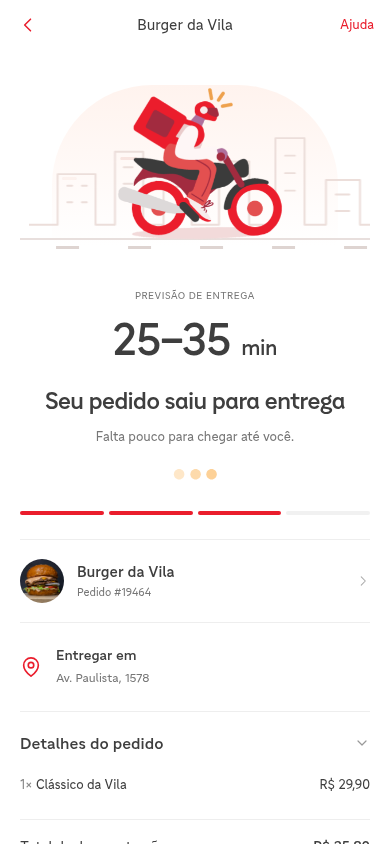
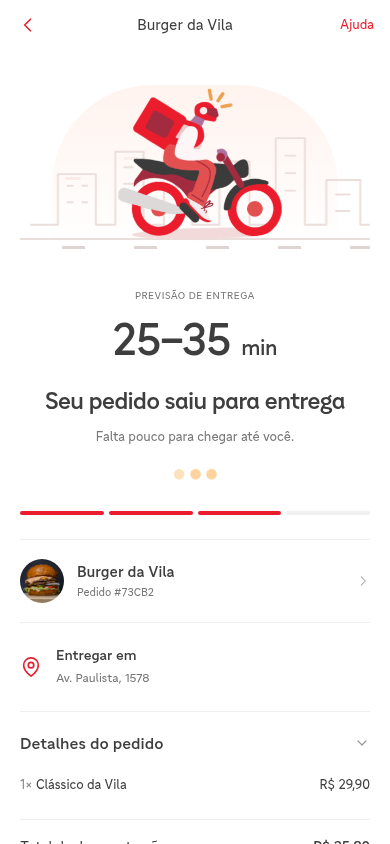
Animate preparing order with branded pot and rising steam

diff --git a/dist/ifood-effects.js b/dist/ifood-effects.js
@@ -38,6 +38,13 @@ export function orderScene(order) {
       <span class="accept-check"><svg viewBox="0 0 40 40"><path d="m10 21 7 7 14-15" pathLength="1"/></svg></span>
     </div>`;
   }
+  if (order.status === "preparing") {
+    return `<div class="order-scene preparation-scene" data-order-motion="preparing" data-order-id="${id}" aria-hidden="true">
+      <div class="prep-halo"></div><div class="prep-shadow"></div>
+      <svg class="prep-steam" viewBox="0 0 104 66"><path class="steam-one" d="M22 56c-14-12 14-16 0-30"/><path class="steam-two" d="M52 48c-17-14 17-19 0-35"/><path class="steam-three" d="M82 56c-14-12 14-16 0-30"/></svg>
+      <div class="prep-pot"><span class="prep-handle handle-left"></span><span class="prep-handle handle-right"></span><div class="prep-body"><img src="./assets/identity/ifood/logo.svg" alt=""></div><div class="prep-lid"><span></span></div></div>
+    </div>`;
+  }
   if (order.status === "delivering") {
     return `<div class="order-scene delivery-scene" data-order-motion="delivery" data-order-id="${id}">
       <div class="courier-sky" aria-hidden="true"></div>
@@ -149,6 +156,70 @@ export function mountOrderScenes(root = document) {
             { transform: "translateY(0) scale(1)", opacity: 1 },
           ],
           { delay: 300 + i * 90, duration: 700, fill: "backwards" },
+        );
+      }
+    } else if (el.dataset.orderMotion === "preparing") {
+      animate(
+        ".prep-pot",
+        [
+          { transform: "translateY(18px) scale(.9)", opacity: 0 },
+          {
+            transform: "translateY(-3px) scale(1.02)",
+            opacity: 1,
+            offset: 0.7,
+          },
+          { transform: "translateY(0) scale(1)", opacity: 1 },
+        ],
+        { duration: 650, easing: "cubic-bezier(.22,1,.36,1)" },
+      );
+      animate(
+        ".prep-halo",
+        [
+          { transform: "scale(.8)", opacity: 0 },
+          { transform: "scale(1)", opacity: 1 },
+        ],
+        { duration: 800, easing: "ease-out" },
+      );
+      animate(
+        ".prep-shadow",
+        [
+          { transform: "scale(.75)", opacity: 0 },
+          { transform: "scale(1)", opacity: 0.65 },
+        ],
+        { duration: 650, easing: "ease-out" },
+      );
+      animate(
+        ".prep-lid",
+        [
+          { transform: "translateY(0) rotate(0)" },
+          { transform: "translateY(-7px) rotate(-3deg)", offset: 0.35 },
+          { transform: "translateY(-4px) rotate(2deg)", offset: 0.65 },
+          { transform: "translateY(0) rotate(0)" },
+        ],
+        { duration: 1400, iterations: 3, delay: 250, easing: "ease-in-out" },
+      );
+      for (const [i, name] of [
+        ".steam-one",
+        ".steam-two",
+        ".steam-three",
+      ].entries()) {
+        animate(
+          name,
+          [
+            { transform: "translateY(6px) scaleX(.85)", opacity: 0.15 },
+            {
+              transform: "translateY(-3px) scaleX(1.1)",
+              opacity: 0.8,
+              offset: 0.55,
+            },
+            { transform: "translateY(0) scaleX(1)", opacity: 0.65 },
+          ],
+          {
+            duration: 1400,
+            iterations: 3,
+            delay: i * 160,
+            easing: "ease-in-out",
+          },
         );
       }
     } else {

diff --git a/dist/ifood-effects.css b/dist/ifood-effects.css
@@ -131,6 +131,105 @@
   background: #e8ab57;
   border-radius: 50%;
 }
+.preparation-scene {
+  width: 260px;
+  height: 176px;
+  margin-top: -8px;
+  margin-bottom: 18px;
+}
+.prep-halo {
+  position: absolute;
+  width: 156px;
+  height: 146px;
+  left: 52px;
+  top: 10px;
+  border-radius: 50%;
+  background: #fff1ed;
+}
+.prep-shadow {
+  position: absolute;
+  width: 132px;
+  height: 11px;
+  left: 64px;
+  bottom: 10px;
+  border-radius: 50%;
+  background: #ecd8d4;
+  opacity: 0.65;
+}
+.prep-steam {
+  position: absolute;
+  width: 104px;
+  height: 66px;
+  left: 78px;
+  top: 9px;
+  fill: none;
+  stroke: #e7a99b;
+  stroke-width: 4;
+  stroke-linecap: round;
+  overflow: visible;
+}
+.prep-steam path {
+  transform-box: fill-box;
+  transform-origin: center bottom;
+  opacity: 0.65;
+}
+.prep-pot {
+  position: absolute;
+  left: 65px;
+  top: 88px;
+  width: 130px;
+  height: 63px;
+  transform-origin: 50% 95%;
+}
+.prep-body {
+  position: absolute;
+  inset: 0;
+  display: grid;
+  place-items: center;
+  border-radius: 4px 4px 31px 31px;
+  background: #ea1d2c;
+  box-shadow: inset -12px -4px #d51523;
+}
+.prep-body > img {
+  width: 65px;
+  height: auto;
+  filter: brightness(0) invert(1);
+  margin: 1px 5px 0 0;
+}
+.prep-handle {
+  position: absolute;
+  top: 6px;
+  width: 25px;
+  height: 18px;
+  border: 6px solid #c41120;
+  border-radius: 8px;
+}
+.prep-handle.handle-left {
+  left: -18px;
+}
+.prep-handle.handle-right {
+  right: -18px;
+}
+.prep-lid {
+  position: absolute;
+  top: -12px;
+  left: -6px;
+  width: 142px;
+  height: 18px;
+  border-radius: 65% 65% 5px 5px;
+  background: #f04751;
+  box-shadow: inset 0 -5px #c41120;
+  transform-origin: 50% 90%;
+}
+.prep-lid > span {
+  position: absolute;
+  top: -8px;
+  left: 58px;
+  width: 26px;
+  height: 10px;
+  border-radius: 6px 6px 3px 3px;
+  background: #c41120;
+}
 .delivery-scene {
   height: 194px;
   margin-top: -8px;
@@ -246,6 +345,9 @@
   }
   .acceptance-scene {
     height: 166px;
+  }
+  .preparation-scene {
+    height: 176px;
   }
   .courier-entry,
   .courier-rider {

diff --git a/tests/ifood_effects_browser.py b/tests/ifood_effects_browser.py
@@ -1,4 +1,4 @@
-"""Event-level checks for cart celebration and order acceptance/delivery motion."""
+"""Event-level checks for cart celebration and each active order status scene."""
 from pathlib import Path
 from playwright.sync_api import sync_playwright, expect
 import os, json, shutil
@@ -50,7 +50,47 @@ with sync_playwright() as p:
     expect(page.locator('[data-order-motion="accepted"]')).to_have_attribute('data-playback','static')
     checks.append('Accepted order has its own one-shot scene and does not replay after reload')
     page.locator('[data-action="advance-order"]').click()
+    preparing=page.locator('[data-order-motion="preparing"]')
+    expect(page.get_by_role('heading',name='Preparando seu pedido',exact=True)).to_be_visible()
+    expect(preparing).to_be_visible()
+    expect(preparing).to_have_attribute('data-playback','playing')
+    expect(accepted).to_have_count(0)
+    assert page.evaluate('window.scrollY')==0,'Preparation status must be visible after advancing'
+    page.wait_for_timeout(650)
+    a=preparing.locator('.prep-lid').evaluate('(e)=>getComputedStyle(e).transform')
+    steam=preparing.locator('.steam-two').evaluate('(e)=>getComputedStyle(e).transform')
+    page.wait_for_timeout(220)
+    assert a!=preparing.locator('.prep-lid').evaluate('(e)=>getComputedStyle(e).transform'),'Lid did not animate'
+    assert steam!=preparing.locator('.steam-two').evaluate('(e)=>getComputedStyle(e).transform'),'Steam did not animate'
+    page.screenshot(path=str(OUT/'preparing-order.png'))
+    expect(preparing).to_have_attribute('data-playback','complete',timeout=5000)
+    for width in [360,390,1440]:
+        page.set_viewport_size({'width':width,'height':844})
+        assert page.evaluate('document.documentElement.scrollWidth<=innerWidth')
+        page.screenshot(path=str(OUT/f'preparing-{width}.png'))
+    page.set_viewport_size({'width':390,'height':844})
+    page.reload()
+    expect(preparing).to_have_attribute('data-playback','static')
+    assert preparing.evaluate('(e)=>e.getAnimations({subtree:true}).length')==0
+    checks.append('Preparing animates its pot lid and steam once, remains responsive and does not replay after reload')
+    saved_order=page.evaluate('localStorage.getItem("rea-web-v1")')
+    for preference in ['reduce','no-preference']:
+        accessible=browser.new_page(viewport={'width':390,'height':844},reduced_motion=preference)
+        accessible.on('pageerror',lambda e:errors.append(str(e)))
+        accessible.add_init_script('localStorage.setItem("rea-web-v1",'+json.dumps(saved_order)+');sessionStorage.setItem("ifood-splash-seen","1")')
+        accessible.goto(page.url)
+        scene=accessible.locator('[data-order-motion="preparing"]')
+        expect(scene).to_be_visible()
+        if preference=='no-preference':
+            expect(scene).to_have_attribute('data-playback','playing')
+            accessible.emulate_media(reduced_motion='reduce')
+        expect(scene).to_have_attribute('data-playback','static')
+        assert scene.evaluate('(e)=>e.getAnimations({subtree:true}).length')==0
+        expect(accessible.get_by_role('heading',name='Preparando seu pedido',exact=True)).to_be_visible()
+        accessible.close()
+    checks.append('Preparation is static for reduced motion, including when the preference changes during playback')
     page.locator('[data-action="advance-order"]').click()
+    expect(preparing).to_have_count(0)
     rider=page.locator('[data-order-motion="delivery"]')
     expect(rider).to_be_visible()
     expect(rider).to_have_attribute('data-playback','playing')

diff --git a/docs/ifood-motion-v4.md b/docs/ifood-motion-v4.md
@@ -1,18 +1,19 @@
-# iFood: pesquisa de movimento e três eventos — 18/10/2026
+# iFood: pesquisa de movimento e eventos do pedido — 18/10/2026
 
-Esta revisão adiciona resposta visual a três ações dos fluxos locais: colocar um produto na sacola, receber a confirmação do restaurante e sair para entrega. Nenhum evento se conecta à operação real do iFood.
+Esta revisão adiciona resposta visual a quatro ações dos fluxos locais: colocar um produto na sacola, receber a confirmação do restaurante, preparar o pedido e sair para entrega. Nenhum evento se conecta à operação real do iFood.
 
 | Evento | Implementação | Origem e limite |
 | --- | --- | --- |
 | Produto adicionado | Confete e fitas, 30 fps, recorte dos frames 9–74 (2,167 s); pulso discreto da sacola | Camadas `confete` e `fitas` do splash CazéTV recuperado do APK. Transformações, formas e keyframes preservados; apenas as camadas necessárias e seus assets foram selecionados. A aplicação na sacola e o recorte de tempo são adaptações. |
 | Restaurante aceitou | Sacola vermelha, logo branco, selo de confirmação e pequenos brilhos; entrada em aproximadamente 1,18 s | Composição e movimento criados para a versão web. Usa o wordmark já documentado. Não é apresentado como Lottie nativo recuperado. |
+| Preparando seu pedido | Panela vermelha com wordmark branco, tampa oscilando e três trilhas de vapor; entrada de 650 ms e movimento por até 4,52 s | Ilustração em CSS/SVG e movimento criados para a versão web, usando o wordmark já documentado. Não é um recurso nativo recuperado do aplicativo. |
 | Saiu para entrega | Ilustração do entregador de moto/mochila vermelha; entrada, leve movimento vertical, cenário e pista em deslocamento durante 4,8 s | PNG preservado de um espelho público de ilustrações iFood. Fonte oficial exata não estabelecida. Movimento, pista e cenário são adaptações web. |
 
 ## Comportamento
 
 - Confete ocorre depois que o item entra na sacola. Abrir produto, recusar a troca de restaurante ou atingir o limite de 20 unidades não dispara a celebração.
 - A camada de confete não captura toques/cliques, não recebe foco e se remove ao terminar, navegar, ocultar a aba ou ativar movimento reduzido.
-- Aceite e saída para entrega aparecem no acompanhamento. Cada cena toca uma vez por pedido/estado nesta sessão; recarregar ou voltar ao histórico mantém a ilustração estática. As animações param antes de 5 s.
+- Aceite, preparo e saída para entrega aparecem no acompanhamento. Cada cena toca uma vez por pedido/estado nesta sessão; recarregar ou voltar ao histórico mantém a ilustração estática. As animações param antes de 5 s.
 - Com movimento reduzido, o usuário recebe a confirmação textual normal e as ilustrações estáticas. A preferência é respeitada inclusive se mudar durante o efeito.
 - Concluir/cancelar/navegar remove as animações da cena anterior. A reprodução pausa quando a aba está oculta.
 

diff --git a/README.md b/README.md
@@ -7,7 +7,7 @@ Aplicação web independente, responsiva que pode ser publicada em qualquer hosp
 - Pedido, acompanhamento, cancelamento, repetição e persistência local.
 - Identidade visual em início, busca, Hits, favoritos, restaurante, produto, sacola, finalização, pedido e perfil.
 - Wordmark vetorial, fontes iFood RC Textos/Títulos e artes de categorias do CDN oficial.
-- Confete ao adicionar à sacola; confirmação animada do aceite e entregador ilustrado ao sair para entrega.
+- Confete ao adicionar à sacola; confirmação animada do aceite, panela com vapor no preparo e entregador ilustrado ao sair para entrega.
 - Cinco abas e grade de serviços; abertura original de 3 s; loader, cupom e favoritos originais.
 
 ## Executar
@@ -52,4 +52,4 @@ REA original: https://github.com/morluto/rea, commit `69324b0f86cc9a209905831b12
 
 ## Novos efeitos de pedido e sacola
 
-Veja [a pesquisa pública e a implementação](docs/ifood-motion-v4.md). Execute `npm run test:effects` com o servidor ativo para validar confete, aceite, entregador e movimento reduzido. As cenas de aceite/entrega são adaptações web; o confete reaproveita camadas originais de campanha.
+Veja [a pesquisa pública e a implementação](docs/ifood-motion-v4.md). Execute `npm run test:effects` com o servidor ativo para validar confete, aceite, preparo, entregador e movimento reduzido. As cenas de aceite/preparo/entrega são adaptações web; o confete reaproveita camadas originais de campanha.

diff --git a/NOTICE.md b/NOTICE.md
@@ -12,6 +12,6 @@ Esta é uma reconstrução web independente. Uber e iFood, seus nomes, marcas, f
 - Fotos: origem e atribuição em `dist/assets/PHOTO-CREDITS.txt`.
 - Dados de mapa: © colaboradores do OpenStreetMap, ODbL; o mapa mantém a atribuição visível. Tiles são solicitados pelo navegador, sem download em massa ou armazenamento para uso offline. Trajetos estáticos de demonstração foram calculados no servidor público OSRM; fontes em `dist/assets/routes-sources.json`.
 - Capturas e gravações de referência: origens documentadas em `references/`; a disponibilidade pública não altera a titularidade desses materiais.
-- Efeitos iFood: confete derivado das camadas originais da campanha CazéTV do APK; entregadorPNG obtido no espelho Imagens Free. Hashes e limites de origem em `dist/assets/effects/manifest.json`. As cenas de aceite/entrega e a colocação do confete na sacola são adaptações web, não novos originais atribuídos ao iFood.
+- Efeitos iFood: confete derivado das camadas originais da campanha CazéTV do APK; entregador PNG obtido no espelho Imagens Free. Hashes e limites de origem em `dist/assets/effects/manifest.json`. As cenas de aceite/preparo/entrega e a colocação do confete na sacola são adaptações web, não novos originais atribuídos ao iFood.
 
 Somente os recursos incluídos no pacote se aplicam. O pacote iFood não necessita de mapa nem das fontes Uber.
